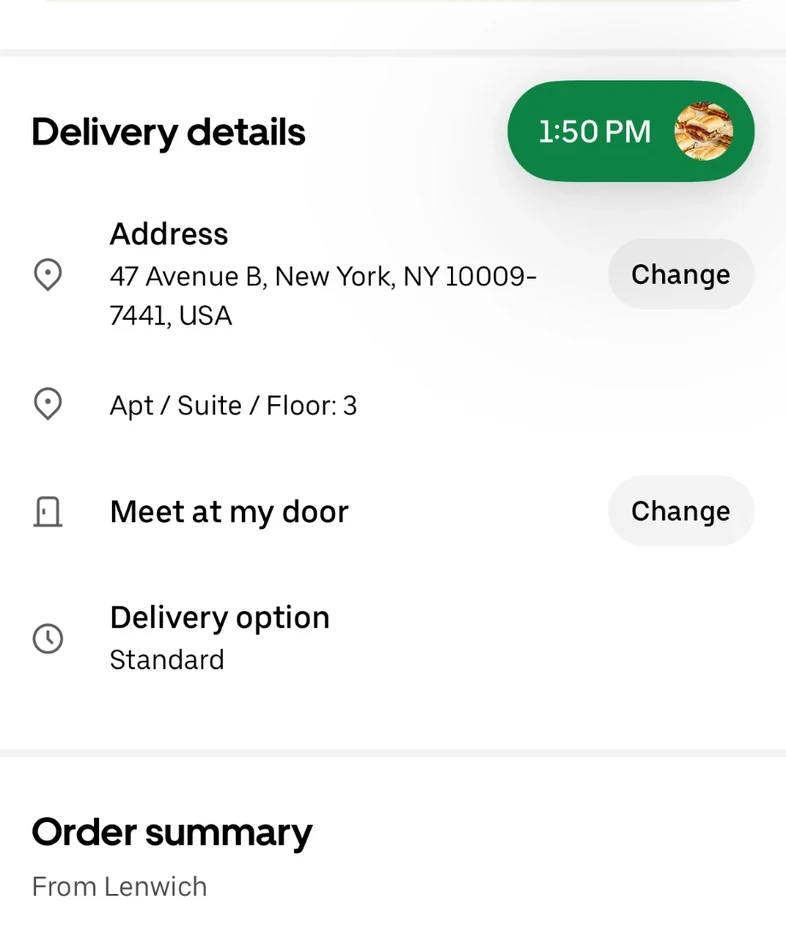
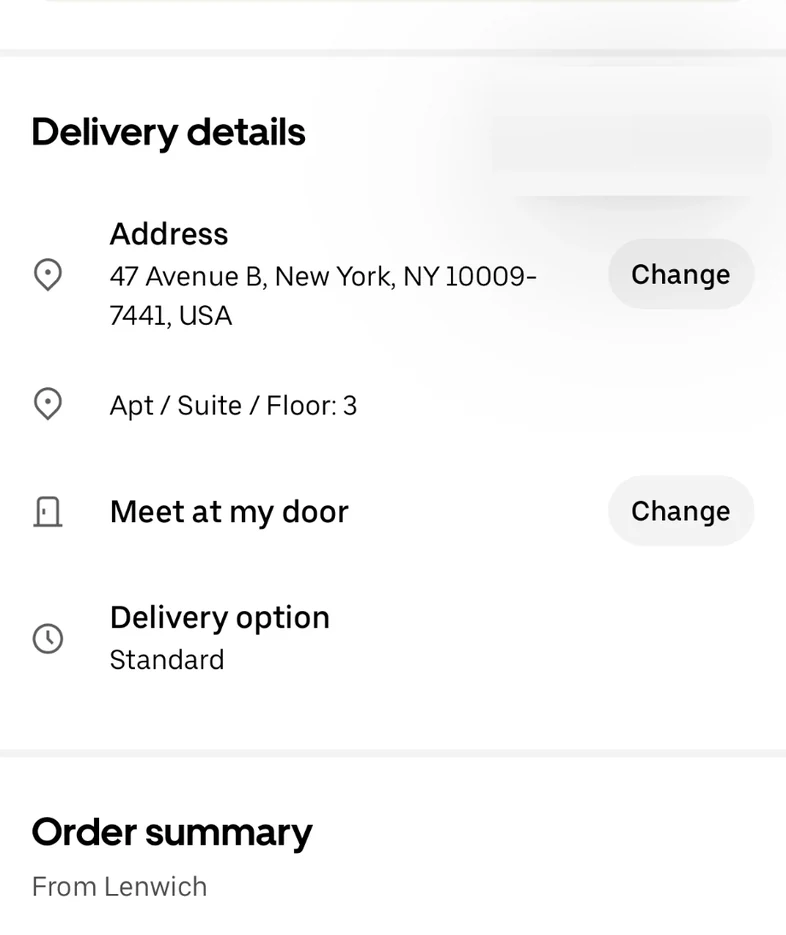
One pill, a bar ground that waits for the scroll, and room under the copy
Three fixes, two of them mine to begin with.

The second pill was my doing: the last re-slice of the lower page half
overwrote the cleaned version and put the baked pill back, so the DOM
one and the captured one were both on screen. Both halves are rebuilt
from the retimed sources with the pill taken out, and the removal is
checked rather than assumed.

Removing it from the upper half then wiped the "with ... 14:30" copy
underneath, because searching for the pill's green caught that text too
and the reconstruction band grew to cover it. The band is now the pill's
own measured rect, and the check confirms the text below survives.

The bar held a fixed band of white, which pushed the header down at the
start where the app has content sitting right under the bar. The white
is now a ground that fades in with the scroll — only needed once
something is travelling past, which is what the app does.

And the disclaimer sat 13 units off the pager, which reads as touching.
Now 19, with the dots a little nearer the card's edge so the copy above
is not squeezed for it.

Changed region(s): [[0.6412, 0.062, 0.9771, 0.2171]]

diff --git a/src/UberAdsLoop.tsx b/src/UberAdsLoop.tsx
@@ -61,8 +61,17 @@ const CARD_W = 358
  * past — without it the content ran straight into the bar with nothing
  * between them.
  */
-const BAR_H = 124
+const BAR_H = 99
 const PAGE_TOP = 99
+/**
+ * White under the bar, which fades in with the scroll.
+ *
+ * A fixed band of it pushed the header down at the start, where the app has
+ * the content sitting right under the bar. The band is only needed once
+ * something is travelling past, which is what the app does too: the bar picks
+ * up a ground when you scroll and has none before that.
+ */
+const BAR_PAD = 26
 /** The delivery-time pill, which floats rather than scrolls. */
 const PILL_X = 254
 const PILL_Y = 427
@@ -715,6 +724,23 @@ export default function UberAdsLoop({ alt, fit = "width" }: UberAdsLoopProps) {
                                             />
                                         </div>
                                     </div>
+
+                                    {/* The bar's ground, once the page is
+                                        moving under it. */}
+                                    <div
+                                        style={{
+                                            position: "absolute",
+                                            left: 0,
+                                            top: px(BAR_H),
+                                            width: px(SCREEN_W),
+                                            height: px(BAR_PAD),
+                                            background: "#FFFFFF",
+                                            opacity: scrollY > 0 ? 1 : 0,
+                                            transition: animate
+                                                ? `opacity ${Math.round(SCROLL_MS * 0.4)}ms linear`
+                                                : "none",
+                                        }}
+                                    />
 
                                     {/* The delivery-time pill. It is sticky
                                         in the app — it holds its place on

diff --git a/src/UberOfferCard.tsx b/src/UberOfferCard.tsx
@@ -142,18 +142,19 @@ const MUTED = "#9A9A9A"
 const DOT_D = 8
 const DOT_GAP = 16
 const DOT_X = 20
-const DOT_UP = 20
+const DOT_UP = 15
 const DOT_ON = "#030303"
 const DOT_OFF = "#E3E3E3"
 /**
  * What the content column leaves clear at the bottom for the pager.
  *
  * The dots are positioned against the card's own bottom edge rather than
- * flowing after the footer, so the column has to stop short of them or the
- * disclaimer lands on top of the dots. Measured off the export: the
- * disclaimer's baseline sits 37 units up from the card's bottom.
+ * flowing after the footer, so the column has to stop short of them. The
+ * export left 13 units between the disclaimer and the dots, which reads as
+ * them touching; this is 24, with the dots themselves sitting a little nearer
+ * the edge to buy the difference without squeezing the copy above.
  */
-const FOOT_CLEAR = DOT_UP + DOT_D + 9
+const FOOT_CLEAR = DOT_UP + DOT_D + 26
 
 const EASE = "cubic-bezier(0.33, 1, 0.68, 1)"
 
